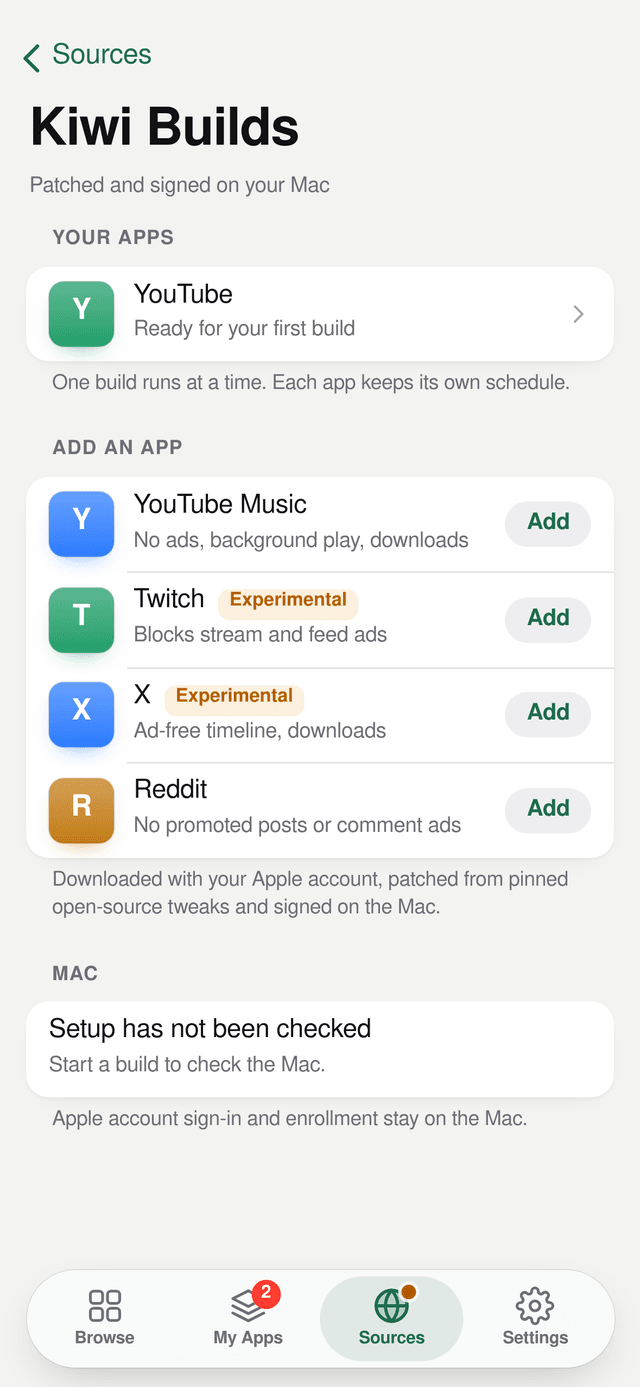
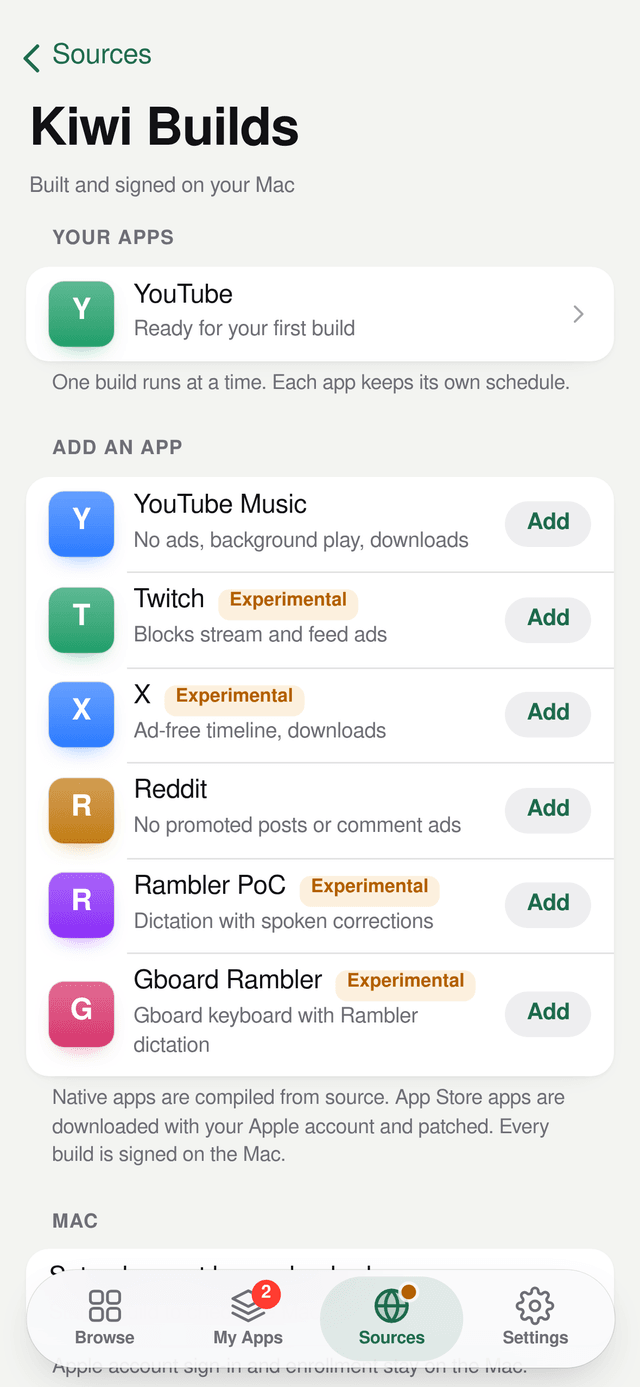
Prepare the public release
Point the README and install guide at github.com/DigitalPals/Kiwi, add a
step-by-step install and a short tour of the tabs to the README, mention
the experimental Rambler apps, and regenerate the screenshots (Settings
still showed the removed Family; Kiwi Builds now lists the Rambler apps).

diff --git a/README.md b/README.md
@@ -10,6 +10,7 @@
 </p>
 
 <p align="center">
+  <a href="https://github.com/DigitalPals/Kiwi/actions/workflows/ci.yml"><img src="https://github.com/DigitalPals/Kiwi/actions/workflows/ci.yml/badge.svg" alt="CI"></a>
   <a href="LICENSE"><img src="https://img.shields.io/badge/license-MIT-1e6b4d" alt="MIT license"></a>
   <img src="https://img.shields.io/badge/server-macOS-555" alt="macOS">
   <img src="https://img.shields.io/badge/phones-iOS%2016%2B-555" alt="iOS 16 or later">
@@ -47,7 +48,9 @@ can only be reached from your own tailnet.
 - **App Store originals.** Patched apps show the App Store app they're based on and warn you
   when the App Store is ahead.
 - **Kiwi Builds (optional, off by default).** Build patched YouTube, YouTube Music, Twitch,
-  X and Reddit apps on your Mac from pinned open-source tweaks, on a schedule.
+  X and Reddit apps on your Mac from pinned open-source tweaks, on a schedule. Experimental
+  extras bring Rambler dictation (filler words removed, spoken corrections applied) to a
+  patched Gboard keyboard and a small dictation app.
 - **Private by design.** Kiwi listens on `127.0.0.1` only. `tailscale serve` publishes it to
   your tailnet over HTTPS, never to the internet, and only your own Tailscale user can use it.
 
@@ -153,21 +156,51 @@ More detail: [architecture](docs/architecture.md).
 | **Build tools** | Xcode (or its command line tools), [Rust](https://rustup.rs) and Node.js 20 or later. `install.sh` checks them all. |
 | **iPhone** | iOS 16 or later; iOS 16.4 or later for notifications. Developer Mode turned on. |
 
-## Quick start
+## Install
 
-On the Mac, in Terminal:
+Plan on about half an hour, most of it in Apple's developer portal.
+[The install guide](docs/install.md) has every step in detail.
 
-```sh
-git clone <this repository's URL> kiwi && cd kiwi
-./install.sh --check    # checks the Mac and shows what it will install; changes nothing
-./install.sh            # builds Kiwi, installs it as a LaunchAgent and publishes it on your tailnet
-```
+1. **Prepare the Mac.** Install Xcode, [Rust](https://rustup.rs) and Node.js. Create an
+   **Apple Development** certificate (Xcode › Settings › Accounts › Manage Certificates),
+   register your iPhones' UDIDs on [developer.apple.com](https://developer.apple.com/account/resources/devices/list)
+   and create a wildcard (`*`) **iOS App Development** profile that includes them, then
+   double-click the downloaded profile. ([How](docs/install.md#2-signing-certificate-and-profile))
+2. **Set up Tailscale** on the Mac and on your iPhones, and turn on **MagicDNS** and
+   **HTTPS Certificates** on the [DNS page](https://login.tailscale.com/admin/dns) of the
+   admin console.
+3. **Install Kiwi.** On the Mac, in Terminal:
 
-The installer prints Kiwi's address, such as `https://your-mac.your-tailnet.ts.net`. On your
-iPhone, open it in Safari, tap **Share › Add to Home Screen**, and open Kiwi from the Home
-Screen. Add a source under **Sources** and install your first app.
+   ```sh
+   git clone https://github.com/DigitalPals/Kiwi.git kiwi && cd kiwi
+   ./install.sh --check    # checks the Mac and shows what it will install; changes nothing
+   ./install.sh            # builds Kiwi, installs it as a LaunchAgent and publishes it on your tailnet
+   ```
 
-To update later, run `git pull && ./install.sh`; to remove Kiwi, run `./uninstall.sh`.
+   The installer ends with Kiwi's address, such as `https://your-mac.your-tailnet.ts.net`.
+4. **Add Kiwi to your iPhone.** Open that address in Safari, tap **Share › Add to Home
+   Screen** and open Kiwi from the Home Screen. Settings should say **Ready to sign**.
+5. **Install your first app.** In **Sources**, tap **+** and paste an AltStore source URL.
+   Tap **Get** on an app in **Browse** and confirm when iOS asks. The first time you open
+   an app Kiwi signed, iOS asks you to turn on **Developer Mode** (Settings › Privacy &
+   Security).
+
+To update Kiwi, run `git pull && ./install.sh` in the clone: it backs up Kiwi's database
+and rolls back if the new version doesn't start. To remove it, run `./uninstall.sh` (add
+`--purge` to delete its data and logs too). Installed apps keep working until their
+signature expires.
+
+## Using Kiwi
+
+| Tab | |
+|---|---|
+| **Browse** | Every app from your sources, with **Fresh This Week** on top. Search, sort, filter by source, and hide apps you don't want (**•••** › **Hide from Browse**). |
+| **My Apps** | Updates, the apps you installed and how long each signature lasts. **Update All** prepares every update; iOS asks you to confirm each install. |
+| **Sources** | Add, turn off or remove AltStore sources, and show all of a source's apps or only the ones you pick. Kiwi Builds lives here too. |
+| **Settings** | Signing, notifications, update checks, the App Store country, this iPhone's link to the Mac and Kiwi Builds. |
+
+Updates, installs that are ready and apps about to expire can notify you (iOS 16.4 or
+later, from the Home Screen app). More in [Using Kiwi](docs/using-kiwi.md).
 
 ## Documentation
 
@@ -207,7 +240,8 @@ your Mac.
 Kiwi is an independent project. It is not affiliated with Apple, AltStore or Tailscale.
 Install only apps you trust and are allowed to use. Kiwi Builds modifies App Store apps and
 may break their terms of service; it is off unless you turn it on, and it's for your own
-devices only. See [Kiwi Builds](docs/kiwi-builds.md) before you use it.
+devices only. Its Rambler apps use a private Google speech service that Google may close
+at any time. See [Kiwi Builds](docs/kiwi-builds.md) before you use it.
 
 ## License
 

diff --git a/CONTRIBUTING.md b/CONTRIBUTING.md
@@ -19,7 +19,7 @@ Thanks for helping. Kiwi is a small project, so a short conversation first saves
    cargo fmt --all --check && cargo clippy --workspace --all-targets -- -D warnings && cargo test --workspace
    (cd web && npm run typecheck && npm test)
    python3 -m pytest automation/test_runner.py
-   shellcheck install.sh uninstall.sh deploy/deploy.sh
+   shellcheck install.sh uninstall.sh deploy/deploy.sh experiments/gboard-rambler/*.sh
    ```
 
 4. When you change the HTTP API, update [docs/api.md](docs/api.md), `web/src/api/types.ts`

diff --git a/docs/using-kiwi.md b/docs/using-kiwi.md
@@ -97,5 +97,6 @@ devicectl**). Installs from other stores show up in My Apps as "installed outsid
 ## Kiwi Builds
 
 Kiwi can also patch App Store apps on your Mac: YouTube, YouTube Music, Twitch, X and
-Reddit. It's off by default; read [Kiwi Builds](kiwi-builds.md) before you turn it on under
-Settings › **Kiwi Builds**.
+Reddit, plus the experimental Gboard Rambler keyboard and Rambler PoC dictation app. It's
+off by default; read [Kiwi Builds](kiwi-builds.md) before you turn it on under Settings ›
+**Kiwi Builds**.

diff --git a/docs/install.md b/docs/install.md
@@ -111,7 +111,7 @@ brew install node                                                 # Node.js 20 o
 Clone the repository and let the installer check the Mac first:
 
 ```sh
-git clone <this repository's URL> kiwi && cd kiwi
+git clone https://github.com/DigitalPals/Kiwi.git kiwi && cd kiwi
 ./install.sh --check
 ```
 
